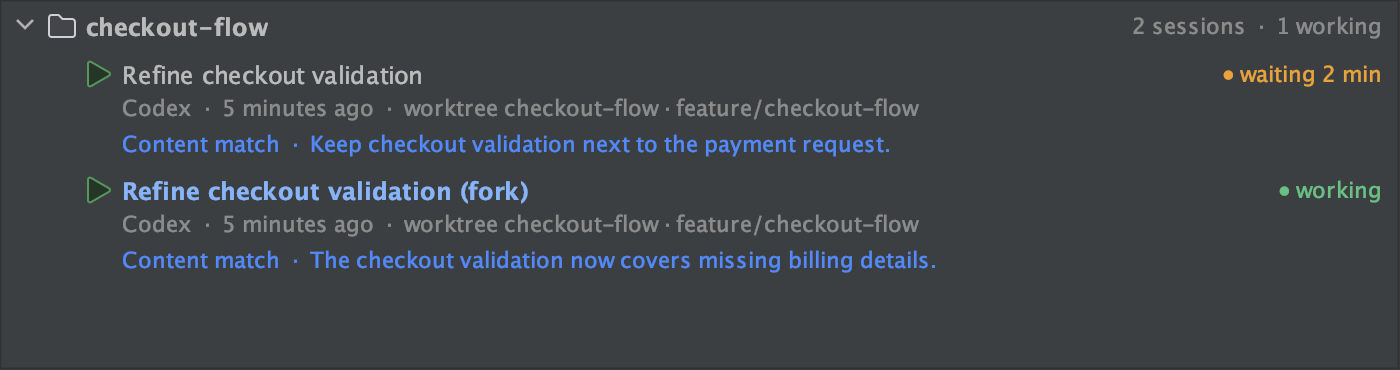
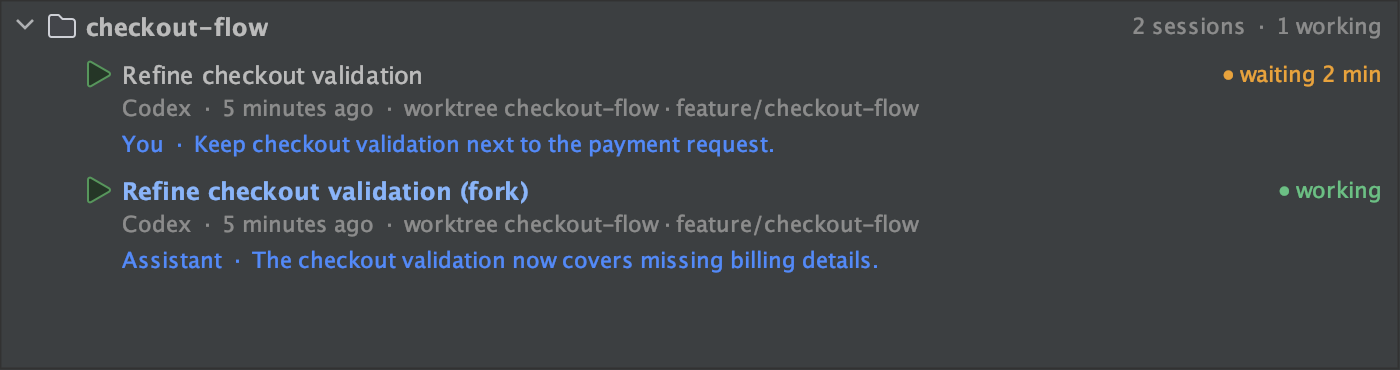
Add Marketplace card for the session switcher

Changed region(s): [[0.0614, 0.6838, 0.6757, 0.7432], [0.0921, 0.3568, 0.645, 0.4162]]

diff --git a/src/test/kotlin/com/hedworth/seshlog/ui/MarketplaceScreenshotTest.kt b/src/test/kotlin/com/hedworth/seshlog/ui/MarketplaceScreenshotTest.kt
@@ -1,10 +1,16 @@
 package com.hedworth.seshlog.ui
 
 import com.hedworth.seshlog.index.SearchHit
+import com.hedworth.seshlog.index.SearchMatchSource
+import com.hedworth.seshlog.index.SearchPrimaryMatch
+import com.hedworth.seshlog.index.SearchSources
 import com.hedworth.seshlog.model.*
 import com.hedworth.seshlog.settings.SeshlogSettings
 import com.hedworth.seshlog.settings.AgentFilterMode
 import com.hedworth.seshlog.settings.AgentFilterState
+import com.hedworth.seshlog.switcher.SessionSwitcherPanel
+import com.hedworth.seshlog.switcher.SwitcherRow
+import com.hedworth.seshlog.switcher.SwitcherSearch
 import com.intellij.openapi.util.Disposer
 import com.intellij.openapi.util.IconLoader
 import com.intellij.testFramework.fixtures.BasePlatformTestCase
@@ -35,6 +41,7 @@ class MarketplaceScreenshotTest : BasePlatformTestCase() {
         val settings = SeshlogSettings.getInstance()
         val oldAll = settings.showAllProjects
         val oldCollapsed = settings.previewCollapsed
+        val oldSources = settings.searchSources
         val owner = Disposer.newDisposable()
         try {
             UIManager.setLookAndFeel("com.intellij.ide.ui.laf.darcula.DarculaLaf")
@@ -43,6 +50,7 @@ class MarketplaceScreenshotTest : BasePlatformTestCase() {
             IconLoader.setUseDarkIcons(true)
             settings.showAllProjects = true
             settings.previewCollapsed = true
+            settings.searchSources = SearchSources.DEFAULT
             AgentFilterState.getInstance(project).mode = AgentFilterMode.All
             val panel = SessionTreePanel(project, owner)
             SwingUtilities.updateComponentTreeUI(panel)
@@ -55,22 +63,43 @@ class MarketplaceScreenshotTest : BasePlatformTestCase() {
             capture(treeView, output.resolve("worktree-sessions.png"), 700, 510)
 
             val hits = listOf(
-                SearchHit(sessions[0], 5.0, false, "Keep checkout validation next to the payment request."),
+                SearchHit(sessions[0], 5.0, false, "Keep checkout validation next to the payment request.",
+                    primary = SearchPrimaryMatch(SearchMatchSource.USER)),
                 SearchHit(sessions[1], 3.0, false, "The checkout validation now covers missing billing details."),
             )
             panel.searchField.text = "checkout validation"
             panel.renderSearchResults("checkout validation", hits)
             capture(treeView, output.resolve("session-search.png"), 700, 185)
-            capture(panel.searchField, output.resolve("search-field.png"), 700, 30)
+            capture(panel.searchField.parent as JComponent, output.resolve("search-field.png"), 700, 34)
+            captureSwitcher(output, sessions)
         } finally {
             Disposer.dispose(owner)
             settings.showAllProjects = oldAll
             settings.previewCollapsed = oldCollapsed
+            settings.searchSources = oldSources
             UIManager.setLookAndFeel(previousLaf)
             JBColor.setDark(previousDark)
             IconLoader.setUseDarkIcons(previousDark)
             IconLoader.deactivate()
         }
+    }
+
+    private fun captureSwitcher(output: Path, sessions: List<Session>) {
+        val panel = SessionSwitcherPanel(project, live = false)
+        try {
+            SwingUtilities.updateComponentTreeUI(panel)
+            panel.query.text = "checkout"
+            val titles = listOf("Refine checkout validation", "Refine checkout validation (fork)",
+                "Add checkout refund history", "Review checkout edge cases", "Improve checkout receipt emails",
+                "Document checkout payment events")
+            val rows = sessions.mapIndexed { index, session ->
+                SwitcherRow(session.copy(title = titles[index], lastActivityAt = session.lastActivityAt.minusSeconds(index * 180L)),
+                    projectNames = listOf("atlas"), associated = index == 2, unread = index == 1)
+            }
+            panel.results.apply(panel.results.begin(panel.query.text), SwitcherSearch.find(rows, panel.query.text))
+            panel.render()
+            capture(panel, output.resolve("session-switcher.png"), 760, 380)
+        } finally { Disposer.dispose(panel) }
     }
 
     private fun capture(component: JComponent, file: Path, width: Int, height: Int) {

diff --git a/docs/marketplace/gen.js b/docs/marketplace/gen.js
@@ -36,7 +36,7 @@ p{font-size:27px;line-height:1.46;color:#b1c0b9;margin:0}.small{font-size:21px;l
 function shell(number, label, content, extra = '') {
   return `<!doctype html><html lang="en"><head><meta charset="utf-8"><style>${css}${extra}</style></head><body><main class="page">
   <header class="top">${icon}<strong>Seshlog</strong><span>Coding-agent sessions in IntelliJ</span><span class="issue">${label}</span></header>
-  ${content}<footer class="foot"><span>Local sessions · Real plugin UI · Synthetic demo data</span><span>${number} / 04</span></footer>
+  ${content}<footer class="foot"><span>Local sessions · Real plugin UI · Synthetic demo data</span><span>${number} / 05</span></footer>
   </main></body></html>`;
 }
 const screen = (image, subtitle, cls = '') => `<div class="window ${cls}"><div class="windowhead">Seshlog<span class="mini">${subtitle}</span></div><img src="${png(image)}" alt="Seshlog session list rendered by the plugin"></div>`;
@@ -92,6 +92,21 @@ const cards = {
     </section>
     <div class="searchfacts"><span>Search across local sessions</span><span>Inspect matching messages</span><span>Resume with the context intact</span></div>
     `, `.searchscreen{position:absolute;left:88px;top:490px;width:1744px}.searchscreen img{width:100%}.searchresults{height:374px;overflow:hidden}.searchfacts{position:absolute;left:88px;right:88px;top:1045px;display:flex;gap:80px;font-size:22px;color:#b5df91}`),
+
+  '05-switcher': shell('05', 'Switch session + worktree', `
+    <section class="copy"><div class="eyebrow">A shortcut across your projects</div>
+      <h1>Find a session.<br><em>Keep moving.</em></h1>
+      <p>Jump between projects and worktrees<br>without hunting through terminal tabs.</p>
+      <div class="pills"><span class="pill"><b>⌘⌥S</b> macOS</span><span class="pill"><b>Ctrl+Alt+Shift+P</b> Windows / Linux</span></div>
+      <ul class="facts"><li><b>Search what you remember</b><br>Titles, projects, paths and branches.</li><li><b>Spot the right checkout</b><br>Coloured branches and bold matches.</li><li><b>Across all four agents</b><br>Claude Code, Codex, opencode and Pi.</li></ul>
+    </section>
+    <section class="screen">${screen('session-switcher.png', 'Switch Session / Worktree')}
+      <div class="forkdiagram">
+        <div class="node"><span class="tag">TRACKED TERMINAL</span><b>Jump back in</b><p>Enter focuses the session<br>and its project window.</p></div>
+        <div class="node new"><span class="tag">STOPPED SESSION</span><b>Choose how to continue</b><p>Resume explicitly, or open<br>an eligible worktree.</p></div>
+      </div>
+      <p class="caption">Searches session metadata. Your conversation stays untouched.</p>
+    </section>`),
 };
 
 for (const [name, html] of Object.entries(cards)) fs.writeFileSync(path.join(out, name + '.html'), html);

diff --git a/docs/marketplace/README.md b/docs/marketplace/README.md
@@ -1,11 +1,12 @@
 # Marketplace media
 
-Upload these four 1920×1200 PNGs in this order in the Marketplace **Media** section:
+Upload these five 1920×1200 PNGs in this order in the Marketplace **Media** section:
 
 1. `01-hero.png` — Open the worktree. Keep the conversation.
 2. `02-worktrees.png` — Choose a session, open/focus its checkout, continue in an independent fork.
 3. `03-sessions.png` — Browse and resume Claude Code, Codex, opencode and Pi sessions.
 4. `04-search.png` — Search conversations and return to the session with the context you need.
+5. `05-switcher.png` — Find a session across projects and switch terminals or worktrees with a shortcut.
 
 The first two cards lead with worktree opening and conversation forks. A conversation fork uses
 the existing checkout; it does not create a Git worktree or isolate file edits. Worktree location
@@ -16,6 +17,8 @@ SDK's Darcula theme. All session titles, paths, activity and search snippets are
 data. The surrounding captions and workflow diagrams are explanatory artwork, not extra plugin
 controls. No real transcripts, usernames or machine paths are captured. The older raw screenshots
 remain in `docs/screenshots/` for reference but are not used by this carousel.
+The switcher capture includes all four agents, coloured branches, bold query matches and the
+outlined selection. The search capture includes the source selector and You/Assistant match labels.
 
 ## Rebuild
 
@@ -26,7 +29,7 @@ SESHLOG_SCREENSHOTS=1 \
 SESHLOG_SCREENSHOT_DIR="$PWD/build/marketplace/raw" \
 ./gradlew test --offline --tests '*MarketplaceScreenshotTest*' --rerun-tasks
 
-cp build/marketplace/raw/{worktree-sessions,session-search,search-field}.png docs/screenshots/
+cp build/marketplace/raw/{worktree-sessions,session-search,search-field,session-switcher}.png docs/screenshots/
 bash docs/marketplace/render.sh
 ```
 
@@ -34,8 +37,11 @@ The renderer uses in-memory demo sessions and never starts an agent or writes in
 It does nothing during ordinary test runs. `gen.js` creates self-contained HTML and `render.sh`
 uses a disposable Chrome profile to render local pages. Set `CHROME_BIN` on other platforms.
 Pass an output directory to `render.sh` to preview without replacing the checked-in cards.
+Copy only the raw captures you intend to refresh; the first three cards share `worktree-sessions.png`.
+Keep the shared design in `gen.js` when adding cards, and update its footer total and the list in
+`render.sh`. The fifth-card update preserves cards 1–3 pixel-for-pixel apart from their footer counts.
 
-Review all four PNGs at full size and at a smaller carousel size, check text clipping and action
+Review all five PNGs at full size and at a smaller carousel size, check text clipping and action
 wording, and verify that no unsupported feature is implied. The fixed 16:10 canvas is consistent
 with [JetBrains' media guidance](https://plugins.jetbrains.com/docs/marketplace/best-practices-for-listing.html#media).
 

diff --git a/PLAN.md b/PLAN.md
@@ -114,6 +114,16 @@ acceptance rows below remain owed; the search performance follow-up stays closed
   offline test suite passed 584 tests, zero failures/errors, 10 opt-in skips. The temporary preview
   harness was removed; physical theme/accessibility acceptance remains open after sandbox restart.
 
+### Switcher Marketplace card (user priority, 2026-10-27)
+
+- [x] Add a fifth Marketplace card for the session/worktree switcher and show it in the README.
+  Preserve the existing design and first three UI captures; refresh the search card's UI for
+  source selection/provenance and update pagination. Extend the opt-in synthetic renderer and
+  rebuild instructions. The opt-in capture and full offline test suite passed (584 tests,
+  zero failures/errors, 10 opt-in skips). All five 1920×1200 PNGs and README media links validated;
+  full-size and thumbnail renders inspected. Pixel comparison confines changes in cards 1–3 to
+  the footer counts. No Marketplace upload was performed.
+
 ### Search settings layout cleanup (user priority, 2026-10-27)
 
 - [x] Simplify the Search settings section: a concise status/empty state, one refresh action,

diff --git a/README.md b/README.md
@@ -15,6 +15,9 @@ tool window.
     <td><a href="docs/marketplace/03-sessions.png"><img src="docs/marketplace/03-sessions.png" alt="Browse sessions from all four supported agents" width="360"></a></td>
     <td><a href="docs/marketplace/04-search.png"><img src="docs/marketplace/04-search.png" alt="Find matching conversations and resume with their context" width="360"></a></td>
   </tr>
+  <tr>
+    <td colspan="2" align="center"><a href="docs/marketplace/05-switcher.png"><img src="docs/marketplace/05-switcher.png" alt="Search across projects and switch sessions or worktrees with a keyboard shortcut" width="360"></a></td>
+  </tr>
 </table>
 
 Click a screenshot to view it full size.
